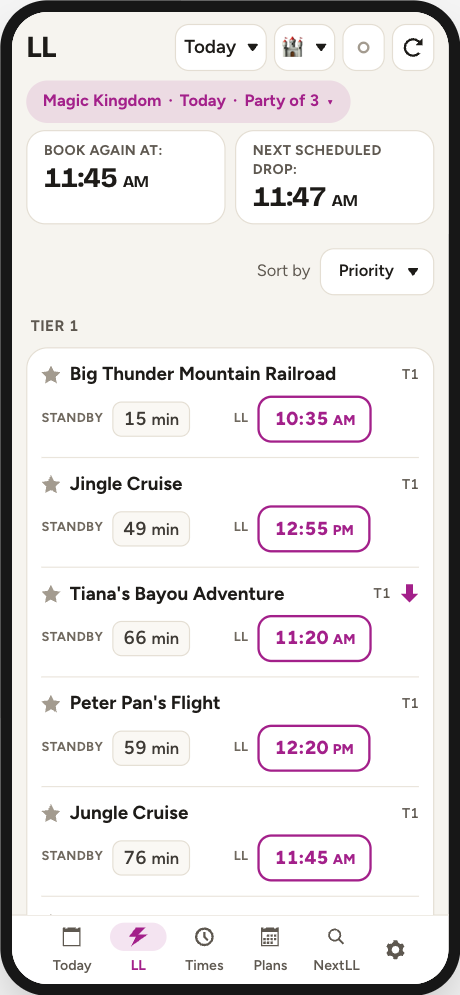
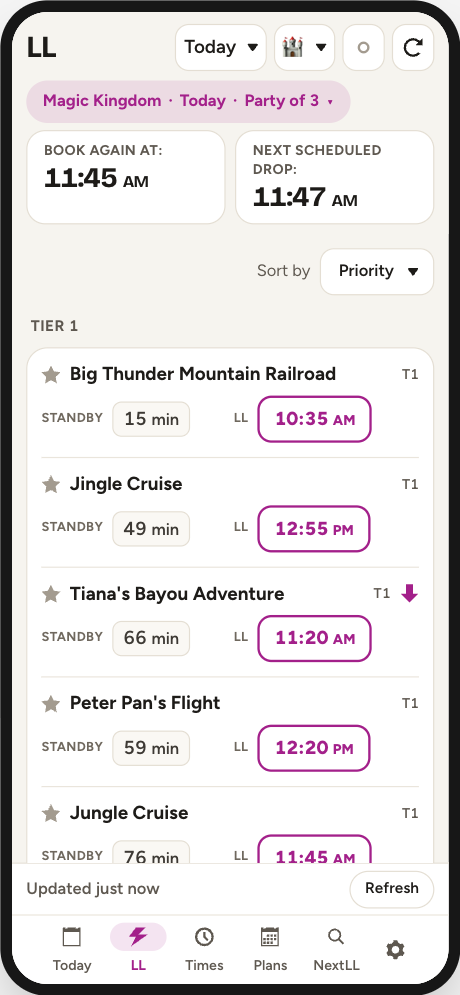
A refresh on the LL tab within reach of a thumb (#30)
The LL tab's only refresh was in the header, out of reach of a thumb on
a phone held in one hand, and nothing on the tab said how old its times
were. A row just above the tabs now reads "Updated 3 min ago", amber
past five minutes as Today's freshness line is, with the minutes in
words, and a Refresh beside it. The header keeps its own refresh.

Tab takes the row as bottomRow, at the top of its footer. The guide,
its tip board screenshot and USABILITY.md say so.

Changed region(s): [[0.5478, 0.8724, 0.9435, 0.9035], [0.0609, 0.8724, 0.3652, 0.9035]]

diff --git a/src/components/ll/screens/Home/MultiPassList.tsx b/src/components/ll/screens/Home/MultiPassList.tsx
@@ -3,6 +3,7 @@ import { memo, use, useEffect, useRef, useState } from 'react';
 import { isLLMP } from '@/api/itinerary';
 import { Experience, FlexExperience } from '@/api/ll';
 import { Park } from '@/api/resort';
+import Button from '@/components/Button';
 import Screen from '@/components/Screen';
 import Tab from '@/components/Tab';
 import { Time } from '@/components/Time';
@@ -39,6 +40,8 @@ import StandbyTime from './StandbyTime';
 import TimeBanner from './TimeBanner';
 import useSort, { Sorter } from './useSort';
 
+/** Past this many minutes the freshness row turns amber, as Today's does. */
+const STALE_MINUTES = 5;
 const LP_MIN_STANDBY = 30;
 const LP_MAX_LL_WAIT = 60;
 const LIGHTNING_PICK = 'Lightning Pick';
@@ -93,6 +96,11 @@ export default function MultiPassList({ ref }: HomeTabProps) {
           )}
         </>
       }
+      bottomRow={
+        lastUpdated !== undefined && (
+          <Freshness lastUpdated={lastUpdated} onRefresh={refreshExperiences} />
+        )
+      }
       ref={ref}
     >
       {experiences.length > 0 && (
@@ -111,6 +119,38 @@ export default function MultiPassList({ ref }: HomeTabProps) {
       )}
       {loaderElem}
     </Tab>
+  );
+}
+
+/**
+ * How old the list is, and a refresh, at the bottom of the tab. The header's
+ * refresh is out of a thumb's reach on a phone held in one hand, and nothing
+ * on this tab said how old the times were. Reads "just now" until a minute has
+ * passed, and is amber past `STALE_MINUTES`, with the minutes in words so
+ * colour never carries it alone.
+ */
+function Freshness({
+  lastUpdated,
+  onRefresh,
+}: {
+  lastUpdated: number;
+  onRefresh: () => void;
+}) {
+  const [now, setNow] = useState(() => Date.now());
+  useEffect(() => {
+    const timer = setInterval(() => setNow(Date.now()), 60_000);
+    return () => clearInterval(timer);
+  }, []);
+  const minutes = Math.max(0, Math.floor((now - lastUpdated) / 60_000));
+  return (
+    <div className="flex min-h-11 items-center justify-between gap-2 border-b border-gray-200 px-3 text-sm">
+      <span className={minutes > STALE_MINUTES ? 'text-amber-800' : ''}>
+        Updated {minutes === 0 ? 'just now' : `${minutes} min ago`}
+      </span>
+      <Button type="small" title="Refresh the LL list" onClick={onRefresh}>
+        Refresh
+      </Button>
+    </div>
   );
 }
 

diff --git a/src/components/ll/screens/Home/MultiPassList.test.tsx b/src/components/ll/screens/Home/MultiPassList.test.tsx
@@ -22,6 +22,7 @@ import { STARRED_KEY } from '@/storageNamespace';
 import {
   TODAY,
   TOMORROW,
+  act,
   click,
   loading,
   screen,
@@ -249,5 +250,41 @@ describe('MultiPassList', () => {
     await loading();
     see(`Disney lists no Lightning Lanes at ${mk.name} for this day.`);
     see.no('Lightning Lanes have not loaded yet.');
+  });
+
+  // The only refresh was in the header, out of a thumb's reach, and nothing on
+  // the tab said how old the times were.
+  it('says how old the list is, with a refresh within reach', async () => {
+    setTime('09:00');
+    renderList();
+    await loading();
+    see('Updated just now');
+    act(() => jest.advanceTimersByTime(3 * 60_000));
+    see('Updated 3 min ago');
+    const calls = ll.experiences.mock.calls.length;
+    click('Refresh');
+    await loading();
+    expect(ll.experiences).toHaveBeenCalledTimes(calls + 1);
+    see('Updated just now');
+  });
+
+  it('turns the freshness amber once the list is stale', async () => {
+    setTime('09:00');
+    renderList();
+    await loading();
+    expect(see('Updated just now')).not.toHaveClass('text-amber-800');
+    act(() => jest.advanceTimersByTime(6 * 60_000));
+    expect(see('Updated 6 min ago')).toHaveClass('text-amber-800');
+  });
+
+  // Before the list has loaded there is no age to give, and the page offers
+  // its own Try again.
+  it('shows no freshness before the list has loaded', async () => {
+    setTime('09:00');
+    ll.experiences.mockRejectedValueOnce(new Error('offline'));
+    renderList();
+    await loading();
+    see('Lightning Lanes have not loaded yet.');
+    expect(screen.queryByText(/^Updated/)).not.toBeInTheDocument();
   });
 });

diff --git a/docs/user-guide.html b/docs/user-guide.html
@@ -1639,7 +1639,7 @@
     <section id="tipboard">
       <h3><span class="num">13</span> The LL tab — the tip board</h3>
       <figure class="float">
-        <img src="user-guide/tipboard.png" alt="The LL tab: Book again at and Next scheduled drop tiles, a Sort by menu, and the Tier 1 rides, each with its standby wait and its next Lightning Lane return time." loading="lazy">
+        <img src="user-guide/tipboard.png" alt="The LL tab: Book again at and Next scheduled drop tiles, a Sort by menu, the Tier 1 rides, each with its standby wait and its next Lightning Lane return time, and an Updated just now row with Refresh above the tabs." loading="lazy">
         <figcaption>
           One card per attraction: standby on the left, the next LL return time
           on the right. The harness lists every attraction the build knows, so
@@ -1654,6 +1654,13 @@
         moment you may book (<span class="ui">Book again at</span>) and the
         park's next drop from the built-in table
         (<span class="ui">Next scheduled drop</span>).
+      </p>
+      <p>
+        <strong>Freshness</strong> — just above the tabs,
+        <span class="ui">Updated 3 min ago</span> says how old the times on this
+        tab are, amber past five minutes, and <span class="ui">Refresh</span>
+        beside it fetches them again: the header's refresh, within reach of a
+        thumb.
       </p>
       <p>
         <strong>Sorting</strong> — <span class="ui">Sort by</span>, at the top of

diff --git a/src/components/Tab.tsx b/src/components/Tab.tsx
@@ -11,9 +11,16 @@ export default function Tab({
   title,
   buttons,
   subhead,
+  bottomRow,
   children,
   ref,
-}: ScreenProps) {
+}: ScreenProps & {
+  /**
+   * A tab's own row at the top of the footer, within reach of a thumb, where
+   * the header is not.
+   */
+  bottomRow?: React.ReactNode;
+}) {
   const { tabs, scrollPos, footer } = use(TabsContext);
 
   useLayoutEffect(() => {
@@ -32,6 +39,7 @@ export default function Tab({
       subhead={subhead}
       footer={
         <>
+          {bottomRow}
           {/* Above the tabs, never below them. Below, it appeared only while
               Autopilot ran and only off Today, so the tabs rode 28 px higher
               on every other tab and a thumb aimed at them met this row --

diff --git a/docs/USABILITY.md b/docs/USABILITY.md
@@ -88,7 +88,6 @@ spinner that blocks every refresh is the providers', not a screen's.
 
 - The timeline: every name cut at 360 px, bars too small to tap, tooltips in
   24-hour time, and no dining ([FUTURE.md](FUTURE.md) §2.1, §2.2, §2.7).
-- A refresh on the LL tab within reach of a thumb; it is still in the header.
 - A one-tap "Test connection" in Plan Check.
 
 **Built since the review:** screen titles that match their tabs ("Times" and
@@ -101,7 +100,10 @@ every finished step keeps its button, where slice 3 hid it while the last
 backup was under a week old (owner, 2026-10-01). **Watch with Autopilot** is on
 the booking screen, beside an offer and under "No Reservations Available": it
 puts the ride on Autopilot's list alert-only, with the existing add, and opens
-its card in Configure marked just added, so arming it stays Configure's.
+its card in Configure marked just added, so arming it stays Configure's. The LL
+tab has a row above the tabs saying how old its times are ("Updated 3 min ago",
+amber past five minutes), with a **Refresh** within reach of a thumb; the
+header keeps its own.
 
 **After the rehearsal's booking morning:** the booking-morning screen. The
 roadmap holds it until that morning has shown what is hard about it, and that

diff --git a/docs/USER-GUIDE.md b/docs/USER-GUIDE.md
@@ -679,6 +679,10 @@ button to start booking.
 The banner under the header reads `BOOK AGAIN AT:` and `NEXT SCHEDULED DROP:` —
 the next moment you may book, and the park's next drop from the built-in table.
 
+**Freshness.** Just above the tabs, **Updated 3 min ago** says how old the times
+on this tab are, amber past five minutes, and **Refresh** beside it fetches them
+again: the header's refresh, within reach of a thumb.
+
 **Sorting.** **Sort by**, at the top of the list, offers Priority (the app's own ranking),
 Nearby (closest first, today only), Standby, Soonest, and A to Z. Whatever you
 choose, attractions with no availability sink to the bottom, and sorting never
